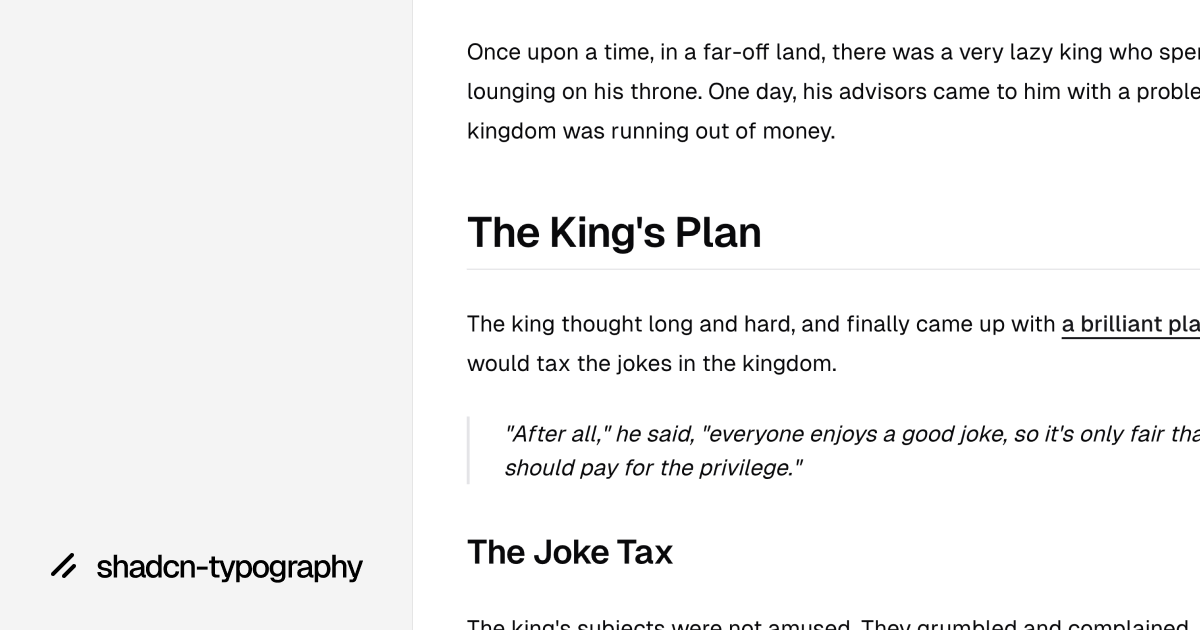
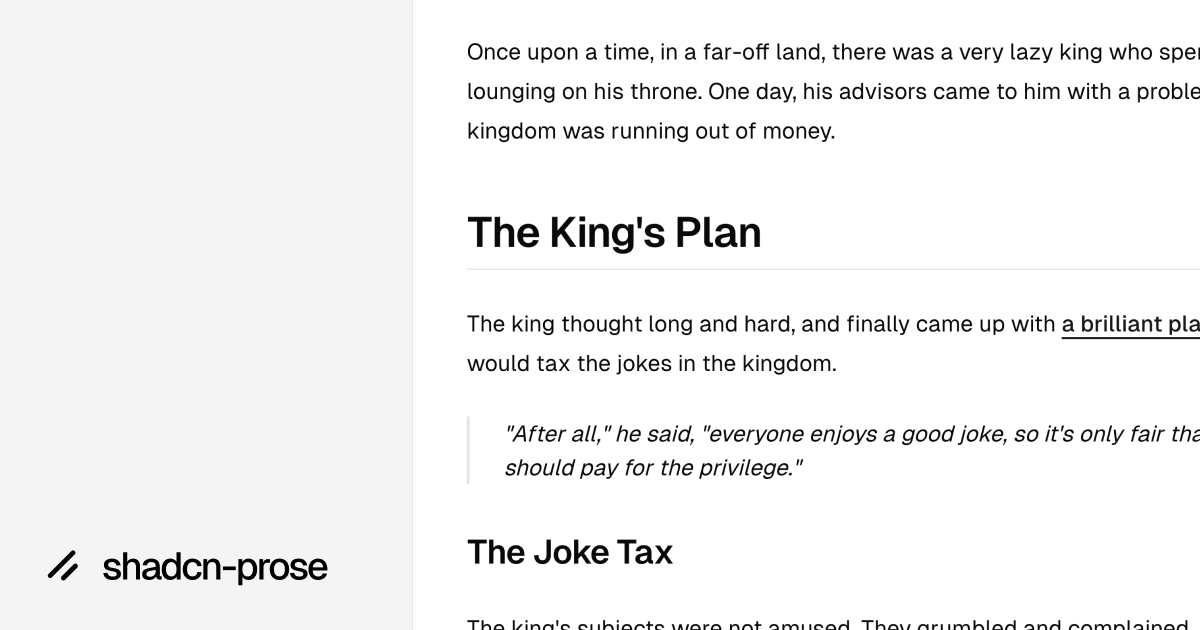
Update name

Changed region(s): [[0.0308, 0.8746, 0.3083, 0.9349]]

diff --git a/website/app/page.tsx b/website/app/page.tsx
@@ -1,4 +1,4 @@
-const TypographyDemo = () => (
+const ProseDemo = () => (
   <>
     <h1>
       The Joke Tax Chronicles
@@ -118,7 +118,7 @@ const TypographyDemo = () => (
 const Home = () => (
   <div className="grid grid-cols-3 divide-x border-x">
     <header className="p-12">
-      <div className="typography mx-auto">
+      <div className="prose mx-auto">
         <svg width={48} height={48} viewBox="0 0 154 154" fill="none" xmlns="http://www.w3.org/2000/svg">
           <g clip-path="url(#clip0_2141_29)">
             <path d="M124.801 76.8L76.8008 124.8" stroke="black" stroke-width="19.2" stroke-linecap="round" stroke-linejoin="round" />
@@ -130,25 +130,25 @@ const Home = () => (
             </clipPath>
           </defs>
         </svg>
-        <h1 className="mt-8">shadcn-typography</h1>
+        <h1 className="mt-8">shadcn-prose</h1>
         <p>A drop-in replacement for <code>@tailwindcss/typography</code>, designed for use with shadcn/ui. Includes headings, paragraphs, lists and more.</p>
         <h2>Installation</h2>
         <p>Simply install the package:</p>
-        <pre>npm install -D shadcn-typography</pre>
+        <pre>npm install -D shadcn-prose</pre>
         <p>Then update your <code>globals.css</code>:</p>
-        <pre>@import 'shadcn-typography';</pre>
+        <pre>@import 'shadcn-prose';</pre>
         <h2>Usage</h2>
-        <p>Add a <code>typography</code> class to your content and you're good to go:</p>
-        <pre>{`<div className="typography">
+        <p>Add a <code>prose</code> class to your content and you're good to go:</p>
+        <pre>{`<div className="prose">
   <h1>Hello world</h1>
   <p>This is a paragraph</p>
 </div>`}</pre>
-        <p>On the right is an example of the typography styles in action.</p>
+        <p>On the right is an example of the prose styles in action.</p>
       </div>
     </header>
     <main className="col-span-2 px-12 py-24 bg-secondary">
-      <div className="typography mx-auto">
-        <TypographyDemo />
+      <div className="prose mx-auto">
+        <ProseDemo />
       </div>
     </main>
   </div>

diff --git a/website/app/globals.css b/website/app/globals.css
@@ -1,5 +1,5 @@
 @import 'tailwindcss';
-@import './typography.css';
+@import './prose.css';
 
 @plugin "tailwindcss-animate";
 

diff --git a/website/app/prose.css b/website/app/prose.css
@@ -1,6 +1,6 @@
 @import "tailwindcss";
 
-.typography {
+.prose {
   @apply max-w-[65ch] text-foreground;
 
   & h1 {

diff --git a/README.md b/README.md
@@ -1,4 +1,4 @@
-# shadcn-typography
+# shadcn-prose
 
 A drop-in replacement for `@tailwindcss/typography`, designed for use with shadcn/ui. Includes headings, paragraphs, lists and more.
 
@@ -7,21 +7,21 @@ A drop-in replacement for `@tailwindcss/typography`, designed for use with shadc
 Simply install the package:
 
 ```bash
-npm install -D shadcn-typography
+npm install -D shadcn-prose
 ```
 
 Then update your `globals.css`:
 
 ```css
-@import 'shadcn-typography';
+@import 'shadcn-prose';
 ```
 
 ## Usage
 
-Add a `typography` class to your content and you're good to go:
+Add a `prose` class to your content and you're good to go:
 
 ```tsx
-<div className="typography">
+<div className="prose">
   <h1>Hello world</h1>
   <p>This is a paragraph</p>
 </div>

diff --git a/.github/ISSUE_TEMPLATE/bug_report.md b/.github/ISSUE_TEMPLATE/bug_report.md
@@ -10,7 +10,7 @@ assignees: ''
 **Describe the bug**
 A clear and concise description of what the bug is.
 
-**shadcn-typography version**
+**shadcn-prose version**
 I am using version ...
 
 **To Reproduce**
